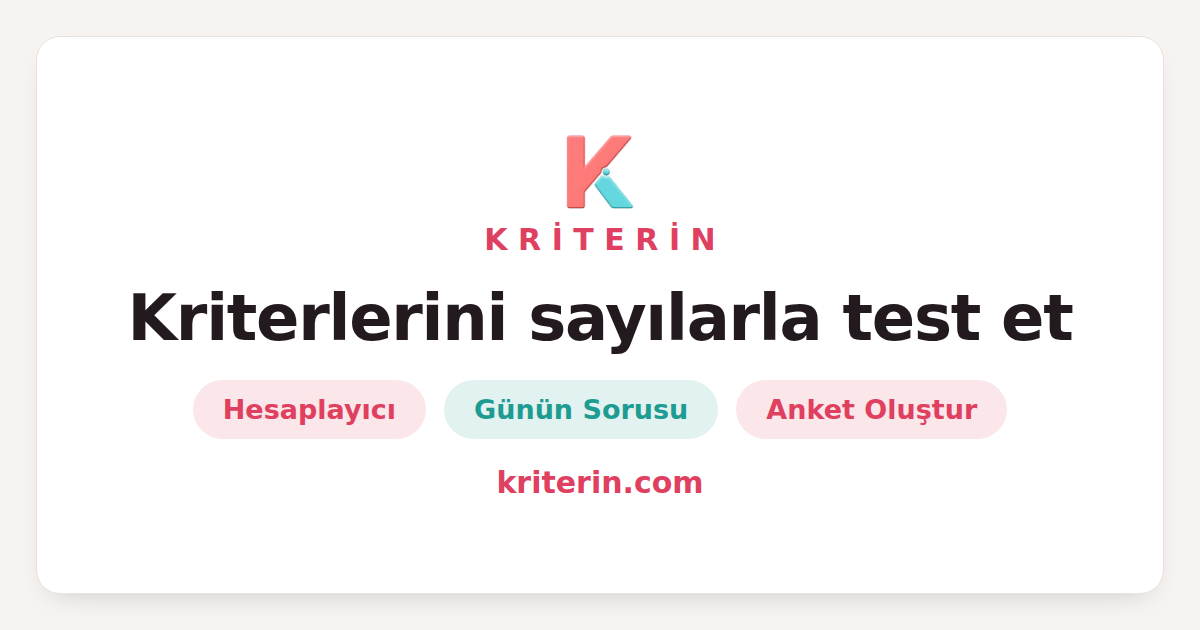
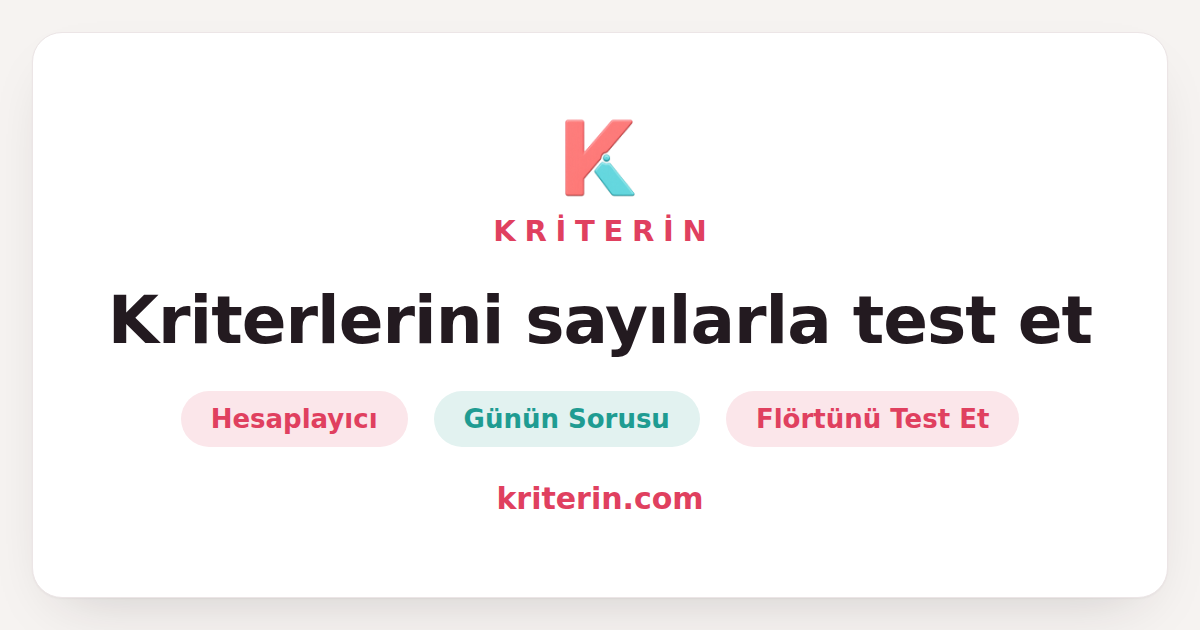
Anket paylaşım kancası, isim düzenleme ve günün sorusu çözüm oranı düzeltmeleri (#34)
- authnav.js: üst bar hesap menüsüne "Çıkış yap" üstünde "İsmi düzenle"
  eklendi; kaydedince bardaki ad + liderlik adı güncellenir, oyun sayfasında
  sunucuya da yazılır, küfür filtresi uygulanır.
- gunun-sorusu.html: mergeHistory artık "çözdü" bilgisini asla kaybetmiyor;
  sunucuda çözülmemiş görünen bir gün yerel çözümü ezip "çözüm oranı %0"
  gösteriyordu. Hile koruması (iki taraf da çözmüşse tahmin sayısını sunucu
  belirler) korundu.
- anket.html: bitiş ekranındaki "Cevabın kaydedildi..." açıklaması kaldırıldı;
  paylaşım başlığı (title + og:title) "Flörtünü Test Et" oldu; paylaşım mesajı
  "Kriterlerime ne kadar uyuyorsun? Aşağıdaki linkten hemen test et." yapıldı.
- netlify/edge-functions/anket-og.js: paylaşılan anket linklerinde önizleme
  başlığı her zaman "Flörtünü Test Et" (açıklama ankete özel kalır).
- og-v2.png: önizleme görselinde 3. etiket "Anket Oluştur" → "Flörtünü Test Et".

Claude-Session: https://claude.ai/code/session_01JjmziDZNWgGcwy8o8NH62A

diff --git a/authnav.js b/authnav.js
@@ -23,6 +23,12 @@
     return ikili.length <= AD_SINIR ? ikili : ad;
   }
 
+  // Ad temizligi: gunun-sorusu.html'deki filtreyle ayni. Bos donerse ad gecersiz.
+  var BAD=['orospu','piç','pic','yarrak','yarak','amk','pezevenk','kahpe','anani','anan','yavsak','oç','sik','got','siktir','amcik'];
+  function cleanName(s){ s=(s||'').trim().replace(/\s+/g,' ').slice(0,19); if(!s)return ''; var l=s.toLowerCase().replace(/[0-9@_.*ıİ]/g,''); for(var i=0;i<BAD.length;i++){ if(l.indexOf(BAD[i])>=0) return ''; } return s; }
+  // Liderlik tablosunda kullanilan ad (gunun-sorusu ile ortak anahtar).
+  function getNick(){ try{ return (localStorage.getItem('kriterin_nick')||'').trim(); }catch(e){ return ''; } }
+
   // Küçük stil (bir kez enjekte)
   if(!document.getElementById('authnav-css')){
     var st=document.createElement('style'); st.id='authnav-css';
@@ -41,7 +47,14 @@
       +'#authNav .an-drop{position:absolute;top:100%;right:0;margin-top:6px;min-width:172px;background:var(--surface,#fff);border:1px solid var(--line,#eee);border-radius:12px;box-shadow:0 10px 30px rgba(0,0,0,.18);padding:6px;z-index:9999;display:none}'
       +'#authNav .an-drop.open{display:block}'
       +'#authNav .an-item{display:flex;align-items:center;min-height:44px;padding:0 14px;border-radius:9px;color:var(--ink,#222);text-decoration:none;font-weight:600;font-size:14px;cursor:pointer;white-space:nowrap;touch-action:manipulation}'
-      +'#authNav .an-item:hover{background:var(--accent-soft,rgba(0,0,0,.05));color:var(--accent)}';
+      +'#authNav .an-item:hover{background:var(--accent-soft,rgba(0,0,0,.05));color:var(--accent)}'
+      /* Isim duzenleme paneli: "Ismi duzenle"ye basilinca acilir, menu ogeleri gizlenir. */
+      +'#authNav .an-edit{display:none;flex-direction:column;gap:7px;padding:6px 8px 4px}'
+      +'#authNav .an-drop.editing .an-edit{display:flex}'
+      +'#authNav .an-drop.editing .an-item{display:none}'
+      +'#authNav .an-input{width:100%;box-sizing:border-box;min-height:40px;padding:0 11px;border:1px solid var(--line,#ddd);border-radius:9px;font:inherit;font-size:14px;color:var(--ink,#222);background:var(--surface,#fff)}'
+      +'#authNav .an-input:focus{outline:none;border-color:var(--accent,#e0405f)}'
+      +'#authNav .an-save{min-height:40px;border:0;border-radius:9px;background:var(--accent,#e0405f);color:#fff;font:inherit;font-weight:700;font-size:14px;cursor:pointer;touch-action:manipulation}';
     document.head.appendChild(st);
   }
 
@@ -68,15 +81,33 @@
       var gosterilen=kisaAd(u.name);
       slot.innerHTML='<button class="an-btn" type="button" aria-haspopup="true" aria-expanded="false" aria-label="Hesap menüsü"><span class="an-name" title="'+esc(u.name)+'">'+esc(gosterilen)+'</span>'
         +'<span class="an-caret" aria-hidden="true"><svg viewBox="0 0 24 24"><path d="M6 9l6 6 6-6"/></svg></span></button>'
-        +'<div class="an-drop" role="menu"><a class="an-item" href="#" role="menuitem" data-logout>Çıkış yap</a></div>';
+        +'<div class="an-drop" role="menu">'
+          +'<a class="an-item" href="#" role="menuitem" data-editname>İsmi düzenle</a>'
+          +'<a class="an-item" href="#" role="menuitem" data-logout>Çıkış yap</a>'
+          +'<div class="an-edit">'
+            +'<input class="an-input" type="text" maxlength="19" placeholder="Görünen ad" aria-label="Görünen ad" autocomplete="off" />'
+            +'<button class="an-save" type="button">Kaydet</button>'
+          +'</div>'
+        +'</div>';
       var btn=slot.querySelector('.an-btn'), drop=slot.querySelector('.an-drop');
       btn.addEventListener('click', function(e){
         e.preventDefault();
         e.stopPropagation();          // belge dinleyicisi ayni tiklamada kapatmasin
         var open=drop.classList.toggle('open');
+        if(!open) drop.classList.remove('editing');   // kapaninca duzenleme paneli de kapansin
         btn.setAttribute('aria-expanded', open?'true':'false');
       });
       slot.querySelector('[data-logout]').addEventListener('click', onLogout);
+
+      var inp=slot.querySelector('.an-input');
+      slot.querySelector('[data-editname]').addEventListener('click', function(e){
+        e.preventDefault();
+        drop.classList.add('editing');
+        inp.value = getNick() || kisaAd(u.name);   // varsa liderlik adi, yoksa gosterilen ad
+        setTimeout(function(){ inp.focus(); inp.select(); }, 0);
+      });
+      slot.querySelector('.an-save').addEventListener('click', onSaveName);
+      inp.addEventListener('keydown', function(e){ if(e.key==='Enter'){ e.preventDefault(); onSaveName(e); } });
     } else {
       slot.innerHTML='<a class="an-login" href="#" data-login>Giriş</a>';
       slot.querySelector('[data-login]').addEventListener('click', onLogin);
@@ -96,6 +127,21 @@
     e.preventDefault();
     setU(null); render();
     loadAuth().then(function(x){ return x.m.signOut(x.auth); }).catch(function(){});
+  }
+
+  // Liderlik + bardaki gorunen adi degistirir. Sunucuya yazma yalnizca KB'nin
+  // yuklu oldugu sayfada (gunun-sorusu) olur; diger sayfalarda "custom" bayragi
+  // sayesinde ad, oyun sayfasi bir sonraki senkronda sunucuya tasir.
+  function onSaveName(e){
+    if(e){ e.preventDefault(); e.stopPropagation(); }
+    var inp=slot.querySelector('.an-input'); if(!inp) return;
+    var n=cleanName(inp.value);
+    if(!n){ alert('Bu isim kullanılamaz, başka bir isim dene.'); inp.focus(); return; }
+    var u=getU()||{}; u.name=n; setU(u);
+    try{ localStorage.setItem('kriterin_nick', n); localStorage.setItem('kriterin_nick_custom','1'); }catch(_e){}
+    if(window.KB && KB.setName){ try{ KB.setName(n); }catch(_e){} }
+    var hn=document.getElementById('hiNick'); if(hn) hn.textContent=n;   // oyun sayfasindaysa selamlama da guncellensin
+    render();
   }
 
   // Başka sekmede (storage) ya da aynı sayfada (anket/günün sorusu girişi) değişince güncelle

diff --git a/anket.html b/anket.html
@@ -3,12 +3,12 @@
 <head>
 <meta charset="utf-8">
 <meta name="viewport" content="width=device-width,initial-scale=1">
-<title>Anket Oluştur, Kriterin</title>
+<title>Flörtünü Test Et</title>
 <meta name="description" content="Kendi kriterlerinden anketini oluştur, arkadaşlarına link at; ne kadar uyduklarını ve liderlik tablosunu gör.">
 <link rel="canonical" href="https://kriterin.com/anket.html" />
 <meta property="og:type" content="website">
 <meta property="og:site_name" content="Kriterin">
-<meta property="og:title" content="Anket Oluştur, Kriterin">
+<meta property="og:title" content="Flörtünü Test Et">
 <meta property="og:description" content="Kendi kriterlerinden anketini oluştur, arkadaşlarına link at; ne kadar uyduklarını ve liderlik tablosunu gör.">
 <meta property="og:image" content="https://kriterin.com/og-v2.png">
 <meta name="twitter:card" content="summary_large_image">
@@ -358,7 +358,7 @@ function myList(){try{return JSON.parse(localStorage.getItem("kriterin_anket_min
 function mySave(id,key,name,at){try{const m=myList();const prevAt=m[id]&&m[id].at;m[id]={key:key||"",name:name||"",at:at||prevAt||Date.now()};localStorage.setItem("kriterin_anket_mine",JSON.stringify(m))}catch(e){}}
 function myRemove(id){try{const m=myList();delete m[id];localStorage.setItem("kriterin_anket_mine",JSON.stringify(m))}catch(e){}}
 /* Paylaşım: kullanıcı istediği mecrayı seçer (X en başta), mesaj sabittir */
-const SHARE_MSG="Kriterlerime ne kadar uyuyorsun? Aşağıdaki linkten hemen test et. Sıralamadaki yerini al.";
+const SHARE_MSG="Kriterlerime ne kadar uyuyorsun? Aşağıdaki linkten hemen test et.";
 const SOCIAL_HTML='<style>.xfollow-wrap{display:flex;flex-wrap:wrap;justify-content:center;gap:10px;margin:16px 0 4px}.xfollow{display:inline-flex;align-items:center;justify-content:center;gap:7px;padding:8px 14px;border-radius:10px;border:1px solid var(--accent);background:var(--surface);color:var(--accent);text-decoration:none;font-weight:700;font-size:13px;letter-spacing:-.01em}.xfollow:hover{background:var(--accent);color:#fff}.xfollow svg{width:15px;height:15px;fill:currentColor;flex:none}.xfollow b{font-weight:800}</style><div class="xfollow-wrap"><a class="xfollow" href="https://x.com/kriterincom" target="_blank" rel="noopener" aria-label="Kriterin\'i X\'te takip et"><svg viewBox="0 0 24 24" aria-hidden="true"><path d="M18.244 2.25h3.308l-7.227 8.26 8.502 11.24H16.17l-5.214-6.817L4.99 21.75H1.68l7.73-8.835L1.254 2.25H8.08l4.713 6.231zm-1.161 17.52h1.833L7.084 4.126H5.117z"/></svg> <span><b>@kriterincom</b></span></a><a class="xfollow" href="https://www.tiktok.com/@kriterincom" target="_blank" rel="noopener" aria-label="Kriterin\'i TikTok\'ta takip et"><svg viewBox="0 0 24 24" aria-hidden="true"><path d="M12.53.02C13.84 0 15.14.01 16.44 0c.08 1.53.63 3.09 1.75 4.17 1.12 1.11 2.7 1.62 4.24 1.79v4.03c-1.44-.05-2.89-.35-4.2-.97-.57-.26-1.1-.59-1.62-.93-.01 2.92.01 5.84-.02 8.75-.08 1.4-.54 2.79-1.35 3.94-1.31 1.92-3.58 3.17-5.91 3.21-1.43.08-2.86-.31-4.08-1.03-2.02-1.19-3.44-3.37-3.65-5.71-.02-.5-.03-1-.01-1.49.18-1.9 1.12-3.72 2.58-4.96 1.66-1.44 3.98-2.13 6.15-1.72.02 1.48-.04 2.96-.04 4.44-.99-.32-2.15-.23-3.02.37-.63.41-1.11 1.04-1.36 1.75-.21.51-.15 1.08-.14 1.62.24 1.64 1.82 3.02 3.5 2.87 1.12-.01 2.19-.66 2.77-1.61.19-.33.4-.67.41-1.06.1-1.79.06-3.57.07-5.36.01-4.03-.01-8.05.02-12.07z"/></svg> <span><b>@kriterincom</b></span></a></div>';
 function shareMenu(url){
   const full=SHARE_MSG+"\n"+url, enc=encodeURIComponent;
@@ -877,7 +877,6 @@ async function renderRespond(id){
     const res=h(`<div class="card">
       <div class="result-ring"><div class="big">${fmtScore(score)}<small>%</small></div>
       <div class="mini">${esc(creator||survey.name)} ile uyumun</div></div>
-      <p class="hint" style="margin:12px 0 0;text-align:center">Cevabın kaydedildi. Sıralama ve katılımcı listesi yalnızca anketi oluşturana görünür.</p>
     </div>`);
     app.appendChild(res);
     app.appendChild(h(`<a class="btn data" style="margin-top:14px;text-decoration:none" href="/anket.html">Kendi anketini yap →</a>`));

diff --git a/gunun-sorusu.html b/gunun-sorusu.html
@@ -497,14 +497,20 @@ input[type=text]:focus{border-color:var(--accent)}
 
   // ===== İki yönlü Google senkronu: sunucudaki gün-gün geçmişle birleştir =====
   var gUser=null, syncing=false, lastSyncSig=null;
-  // Aynı gün iki kayıt varsa ÖNCE kaydedilen (sunucudaki) kazanır.
-  // Eskiden az tahminli olan seçiliyordu; bu, çıkış yapıp misafir olarak günü
-  // tekrar oynayan birinin daha iyi sonucu sunucuya geçirmesine izin veriyordu.
-  // Gün başına tek hak kuralının karşılığı budur.
+  // Aynı gün iki kayıt varsa kural: SUNUCU kazanır (çıkıp misafir olarak tekrar
+  // oynayıp daha az tahminle skoru düşürme hilesini engeller). TEK istisna: "çözdü"
+  // bilgisi asla kaybolmamalı. Yerelde çözülmüş ama sunucuda çözülmemiş görünen bir
+  // gün varsa (başarısız/eksik eski senkron, misafir/ikinci cihaz dokunuşu vb.),
+  // sunucudaki "çözemedi" kaydı yereli ezip "çözüm oranı %0" gösteriyordu. Artık
+  // yerel çözüm korunur; iki taraf da çözmüşse tahmin sayısını yine sunucu belirler.
   function mergeHistory(server, local){
     var m={},k;
     for(k in server) if(Object.prototype.hasOwnProperty.call(server,k)) m[k]=server[k];
-    for(k in local) if(Object.prototype.hasOwnProperty.call(local,k) && !m[k]) m[k]=local[k];
+    for(k in local) if(Object.prototype.hasOwnProperty.call(local,k)){
+      var s=m[k], l=local[k];
+      if(!s){ m[k]=l; }                                  // sunucuda yok → yereli al
+      else if(l && l.solved && !s.solved){ m[k]=l; }     // yerel çözmüş, sunucu çözememiş → çözümü koru
+    }
     return m;
   }
   function syncServer(){

diff --git a/netlify/edge-functions/anket-og.js b/netlify/edge-functions/anket-og.js
@@ -29,7 +29,8 @@ export default async (request, context) => {
   } catch (e) {}
   if (!name) return res;
 
-  const title = esc(name + " - Kriterin");
+  // Başlık her paylaşımda aynı kancayı gösterir; açıklama ankete göre kişiselleşir.
+  const title = "Flörtünü Test Et";
   const desc = esc(name + " kriterlerini belirledi. Ankete katıl; uyum yüzdeni ve liderlik tablosunu gör!");
   let html = await res.text();
   html = html
